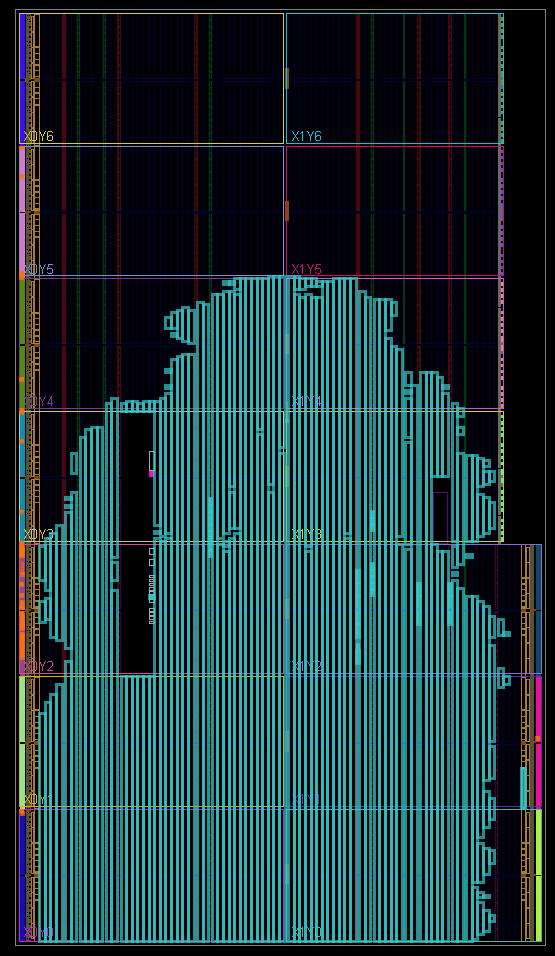
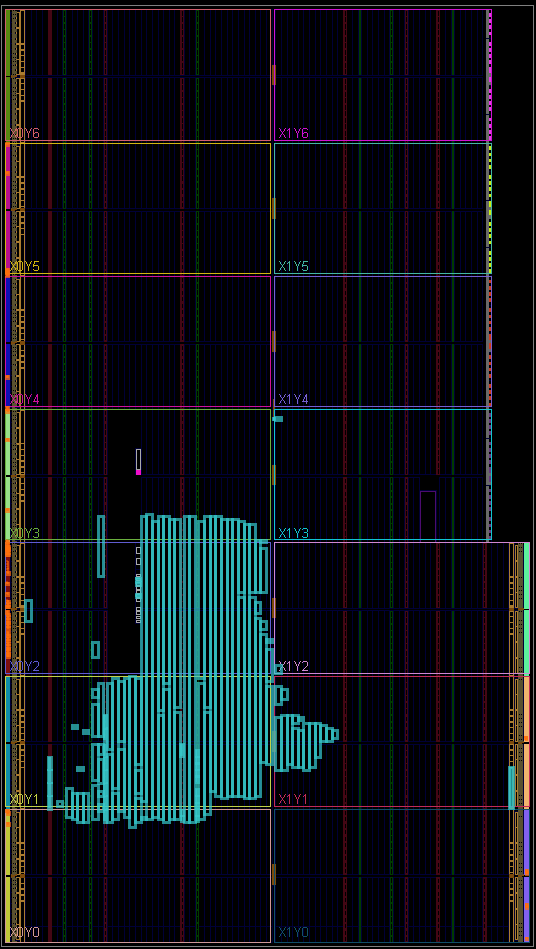
docs: 12.5 yerlesim gorseli teslim bitstream'inin post_route.dcp'sinden yenilendi (6 Eylul, X0Y1-X0Y3, 13772 LUT); Haziran 2026 gorseli (%23 LUT) kaldirildi, altyazi guncellendi

diff --git a/README.md b/README.md
@@ -1406,9 +1406,13 @@ break down as follows and are all benign for this design:
 
 ![FPGA Implemented Design](images/fpga_implemented_design.png)
 
-> Illustrative device view captured from an earlier revision; the numeric
-> signoff data for the current bitstream is the table in 12.4 and the reports
-> under `rtl/fpga/reports/`.
+> Device view of the delivered bitstream (`fpga_top.bit`, 6 September 2026,
+> checkpoint `build/fpga_genesys2/post_route.dcp`) with every placed cell
+> highlighted: the SoC together with the JTAG debug module occupies clock
+> regions X0Y1-X0Y3 of the XC7K325T (13,772 LUT = 6.76 %, 9,756 FF = 2.39 %).
+> The June 2026 revision pictured here earlier used 23 % LUT / 15 % FF, which
+> is why its floorplan looked much fuller. Numeric signoff data: the table in
+> 12.4 and the reports under `rtl/fpga/reports/`.
 
 ### 12.6 FPGA Demos — Live Board
 
